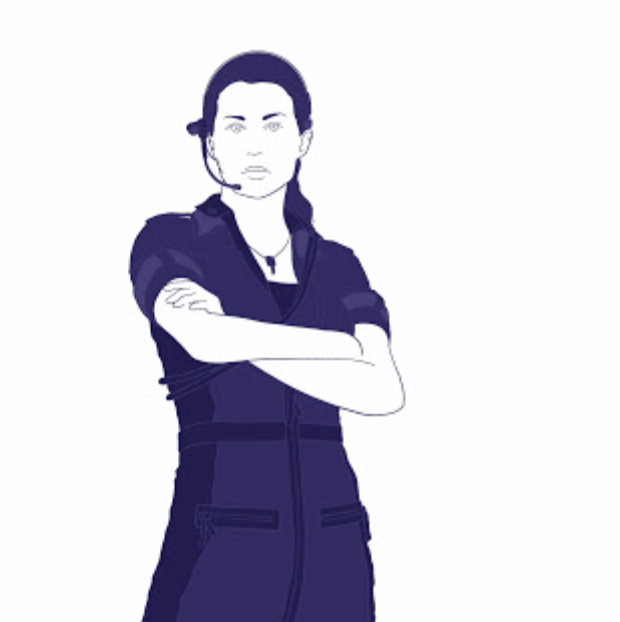
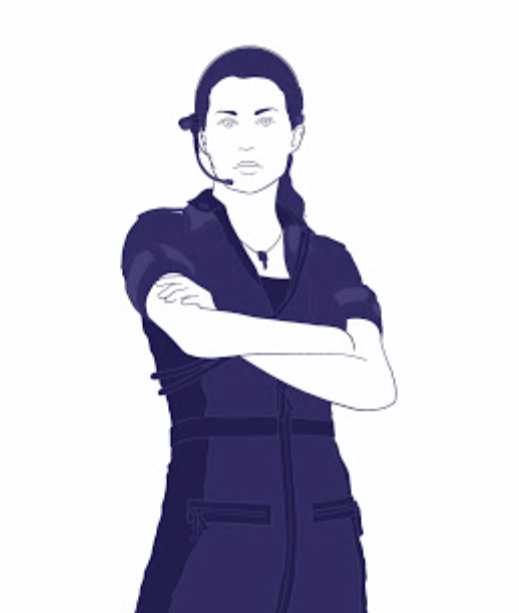
Image cropped

Changed region(s): [[0.185, 0.062, 0.7707, 1.0]]

diff --git a/index.html b/index.html
@@ -20,23 +20,23 @@
         
          <h2>Cassie Cage</h2>
          <p>Cassie Cage is a fictional character featured in the fighting game series Mortal Kombat. She debuted in Mortal Kombat X as the daughter of Mortal Kombat champions Sonya Blade and Johnny Cage as she leads a new generation of combatants in the ongoing fight to protect Earthrealm from Shinnok and his forces.</p>
-         <img src="img/cassie-bw.png">
+         <img src="img/cassie-bw.png" class="center">
 
          <h2>Lara Croft</h2>
          <p>Lara Croft is a fictional character and the main protagonist of the video game franchise Tomb Raider. She is presented as a highly intelligent & athletic English archaeologist who ventures into ancient tombs and hazardous ruins around the world.</p>
-         <img src="img/lara-bw.png">
+         <img src="img/lara-bw.png" class="center">
 
          <h2>Ellie</h2>
          <p>Ellie is a fictional character in the 2013 video game The Last of Us, and the main protagonist of the upcoming video game The Last of Us Part II.</p>
-         <img src="img/ellie-bw.png">
+         <img src="img/ellie-bw.png" class="center">
 
          <h2>Max</h2>
          <p>Maxine Caulfield, better known as Max, is the playable protagonist of Life is Strange. She is an 18-year-old aspiring photographer and senior at Blackwell Academy. She left her mom and dad in Seattle for the seaside town of Arcadia Bay, Oregon, where she grew up.</p>
-         <img src="img/max-bw.png">
+         <img src="img/max-bw.png" class="center">
 
          <h2>Amanda Ripley</h2>
          <p>Amanda "Amy" Ripley is a fictional character in the Alien franchise. The daughter of the protagonist of the film series, Ellen Ripley, an elderly Amanda is first introduced in the extended version of Aliens. Amanda is also the protagonist of the 2014 video game Alien: Isolation, which is set prior to Aliens.</p>
-         <img src="img/amanda-bw.png">
+         <img src="img/amanda-bw.png" class="center">
 
          <h1>List of games</h1>
          <ul>

diff --git a/css/hero.css b/css/hero.css
@@ -55,3 +55,14 @@ footer {
 footer p{
     color: whitesmoke;
 }
+
+.center {
+    display: block;
+    margin-left: auto;
+    margin-right: auto;
+    width: 50%;
+  }
+
+.makesmall {
+    scale: 80%;
+}
